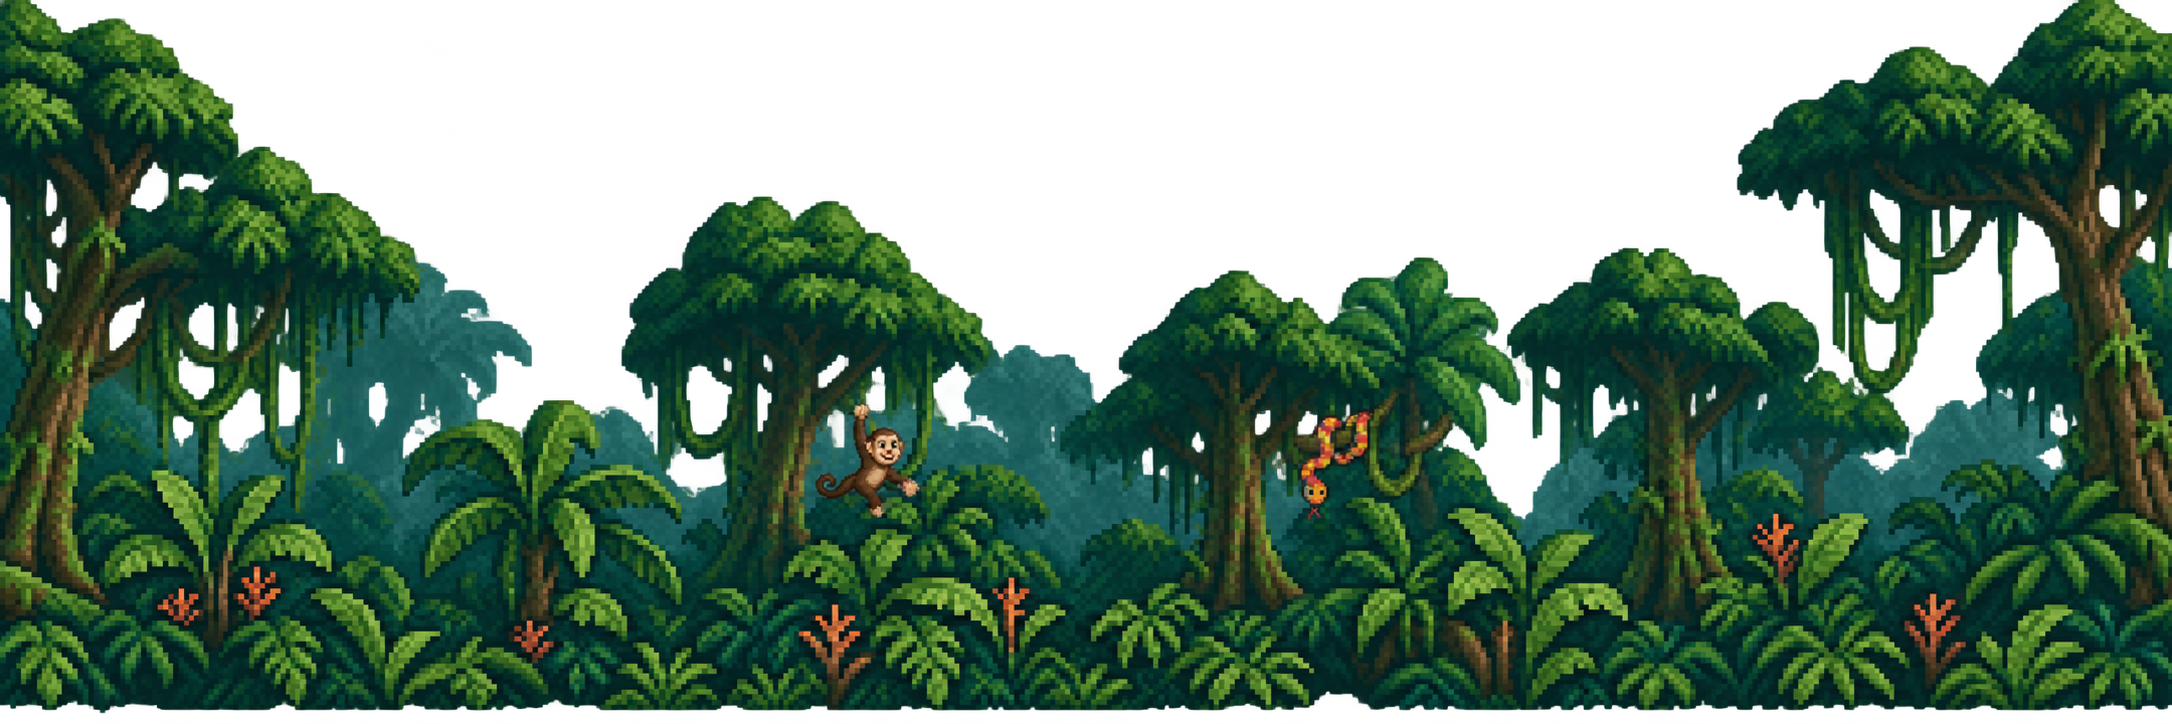
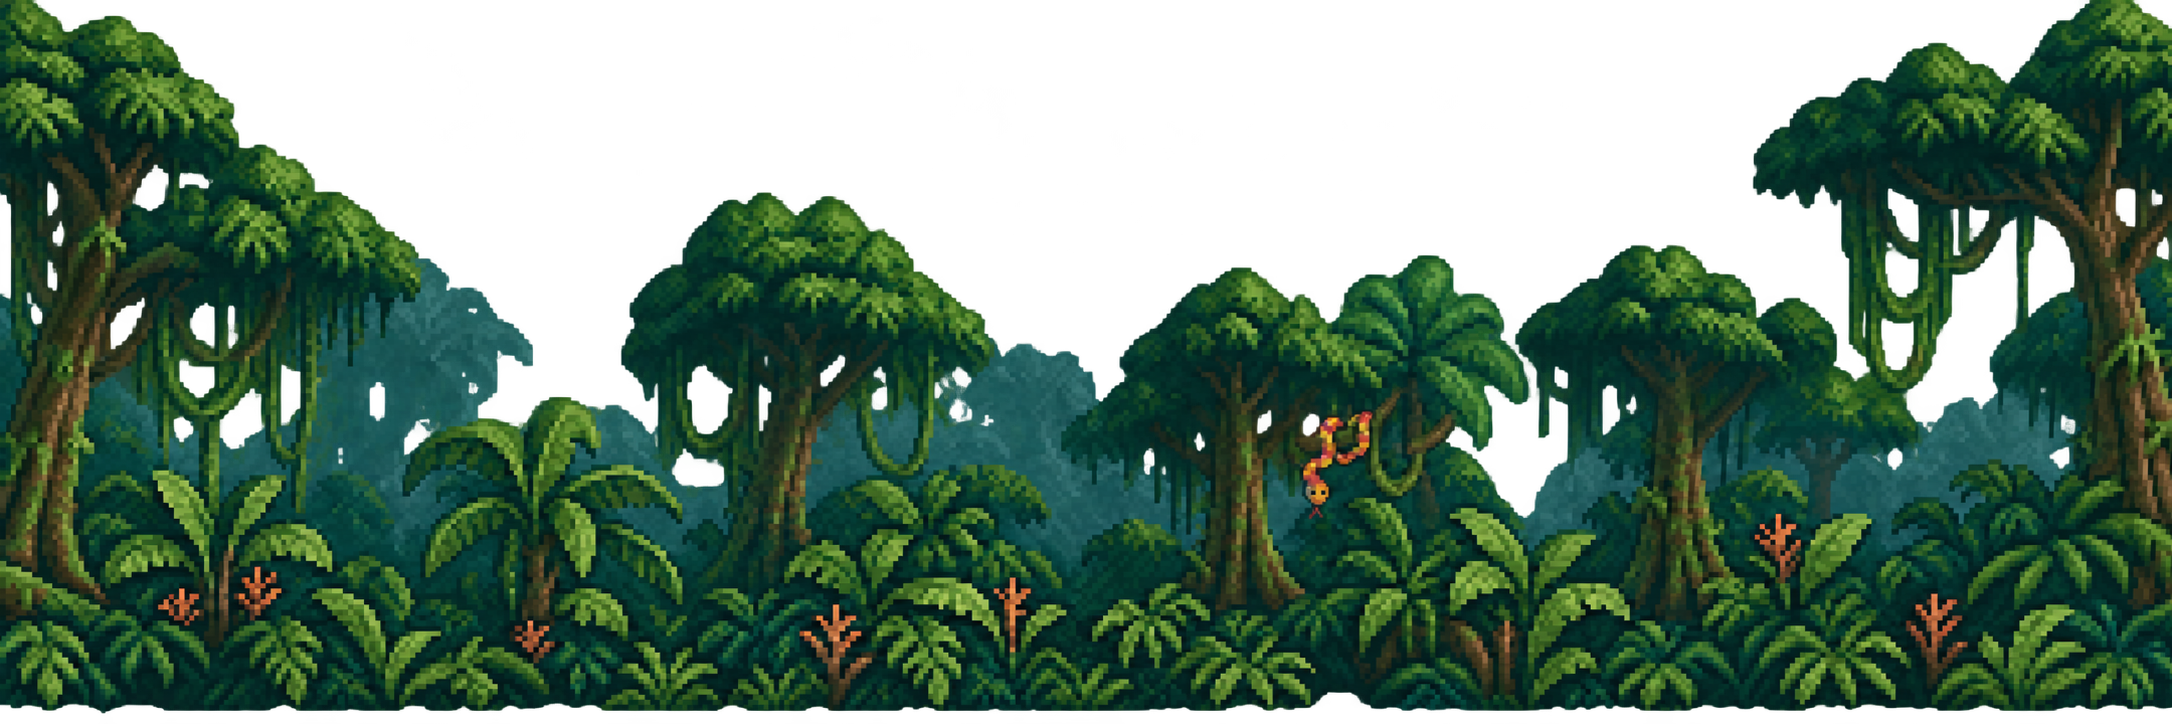
Remove monkey from SA01 mid

diff --git a/src/js/game-runtime.js b/src/js/game-runtime.js
@@ -1368,7 +1368,7 @@ const ASSET_SOURCES={
  eu03Hazards:"../assets/worlds/europe/EU03_OBJECT_ATLAS.png",
  eu03Bird:"../assets/worlds/europe/EU03_HAZARD_BATS.png",
  sa01Far:PHASE8_PILOT?"../assets/phase8-validation/south-america/SA01_BG_DISTANT_AMAZON.png?v=cbe232ba":"../assets/worlds/south-america/SA01_BG_DISTANT_AMAZON.png",
- sa01Mid:PHASE8_PILOT?"../assets/phase8-validation/south-america/SA01_BG_MID_AMAZON.png?v=0e458f4d":"../assets/worlds/south-america/SA01_BG_MID_AMAZON.png",
+ sa01Mid:PHASE8_PILOT?"../assets/phase8-validation/south-america/SA01_BG_MID_AMAZON.png?v=8e5653f5":"../assets/worlds/south-america/SA01_BG_MID_AMAZON.png",
  sa01Ground:PHASE8_PILOT?"../assets/phase8-validation/south-america/SA01_GROUND_AMAZON.png?v=3ca40ce6":"../assets/worlds/south-america/SA01_GROUND_AMAZON.png",
  sa01Hazards:"../assets/worlds/south-america/SA01_OBJECT_ATLAS.png",
  sa01Bird:"../assets/worlds/south-america/SA01_HAZARD_MACAWS.png",
